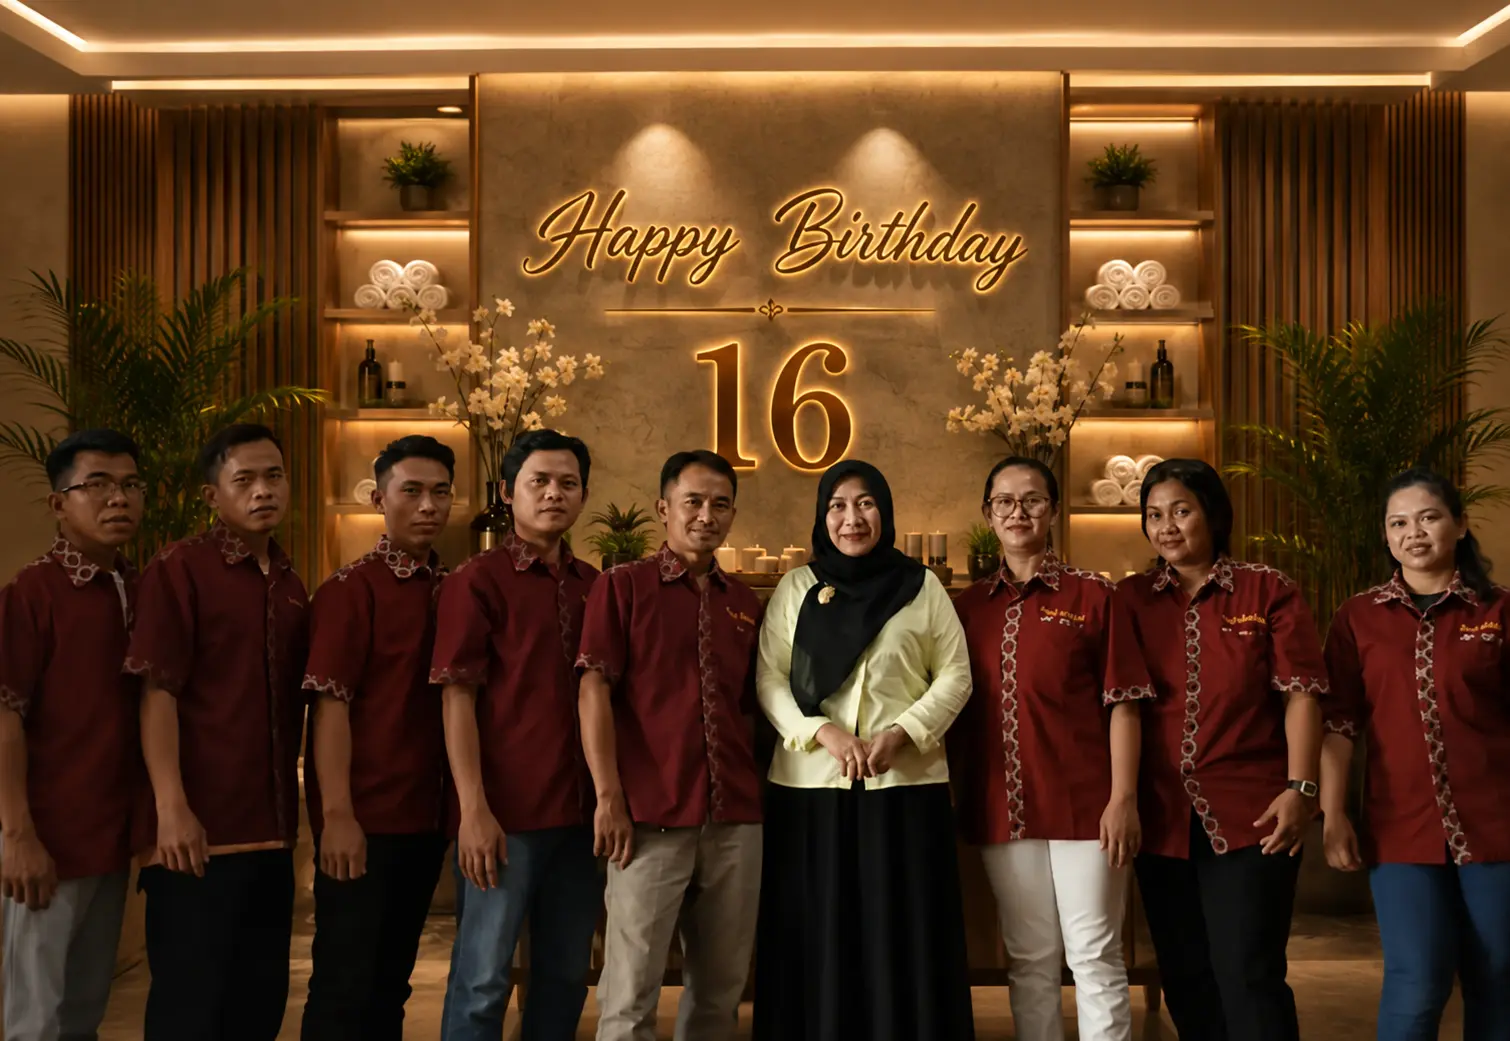
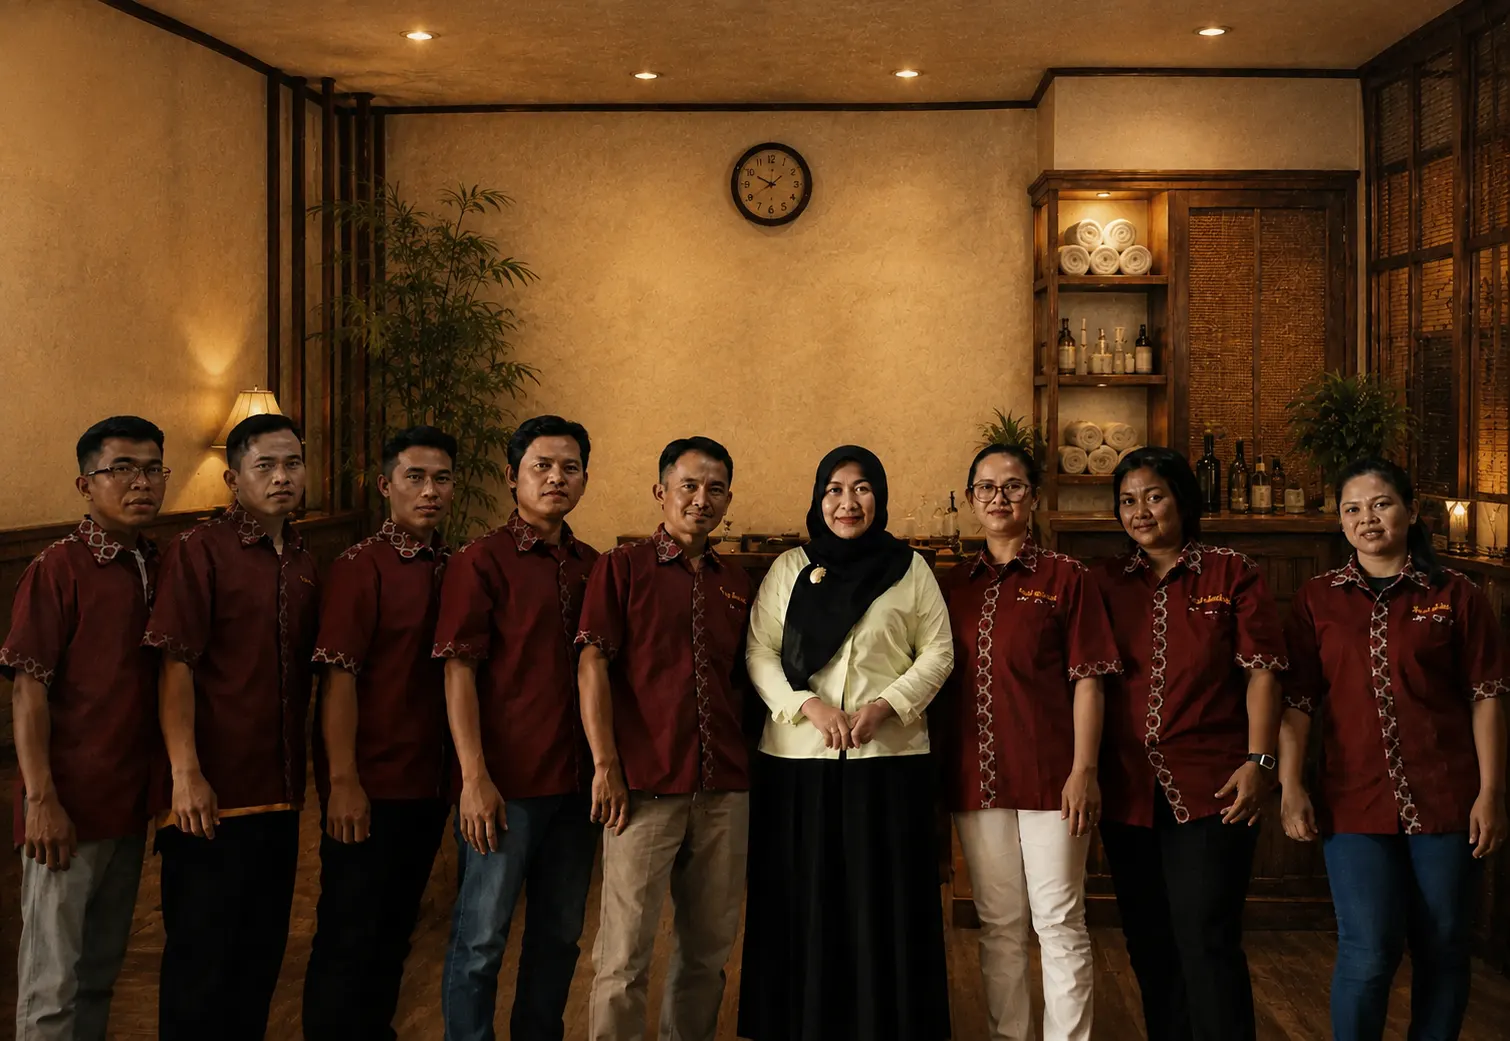
content: point service WA CTAs to branch contact section, update Grand Galaxy address, replace about photos

diff --git a/src/components/sections/Services.tsx b/src/components/sections/Services.tsx
@@ -7,7 +7,6 @@ import ServiceIcon from "@/components/icons/ServiceIcon";
 import SiteImage from "@/components/SiteImage";
 import PhotoFrame from "@/components/PhotoFrame";
 import { services } from "@/data/services";
-import { defaultBranch, waLinkWithMessage } from "@/data/branches";
 import Reveal from "@/components/motion/Reveal";
 import RevealText from "@/components/motion/RevealText";
 import SettleHeading from "@/components/motion/SettleHeading";
@@ -111,9 +110,7 @@ export default function Services() {
                     <div className="mt-auto pt-6">
                       <MagneticButton strength={0.2}>
                         <a
-                          href={waLinkWithMessage(defaultBranch)}
-                          target="_blank"
-                          rel="noopener noreferrer"
+                          href="#kontak"
                           className="inline-flex w-full items-center justify-center gap-2 rounded-full border border-tertiary px-5 py-3 text-sm font-semibold text-tertiary transition-colors duration-200 hover:bg-tertiary hover:text-on-tertiary"
                         >
                           <WhatsAppIcon className="h-4 w-4" />
@@ -138,9 +135,7 @@ export default function Services() {
           <Reveal delay={0.3}>
             <MagneticButton>
               <a
-                href={waLinkWithMessage(defaultBranch)}
-                target="_blank"
-                rel="noopener noreferrer"
+                href="#kontak"
                 className="inline-flex items-center justify-center gap-3 rounded-full bg-tertiary px-7 py-4 text-sm font-semibold text-on-tertiary shadow-[0_6px_20px_-6px_rgba(201,162,75,0.6)] transition-[filter,box-shadow] duration-200 hover:brightness-110 hover:shadow-[0_8px_28px_-4px_rgba(201,162,75,0.75)] active:scale-[0.98]"
               >
                 <WhatsAppIcon className="h-5 w-5" />

diff --git a/src/data/branches.ts b/src/data/branches.ts
@@ -55,7 +55,8 @@ export const branches: Branch[] = [
     waLink: "https://wa.me/628132180078",
     waText:
       "Halo The King's Reflexology Grand Galaxy, saya ingin bertanya tentang layanan dan harga pijat refleksi.",
-    address: "PXGF+6J7, Jaka Setia, Kec. Bekasi Sel., Kota Bekasi, Jawa Barat",
+    address:
+      "Ruko Grand Galaxy City, Jl. Boulevard Raya, Blok RGA No. 95, Bekasi Selatan, Kota Bekasi, Jawa Barat",
     postalCode: "17147",
     mapsUrl: "https://maps.app.goo.gl/zxU7GXKLqHG5komk6",
     geo: { latitude: -6.2709, longitude: 106.9722 },
